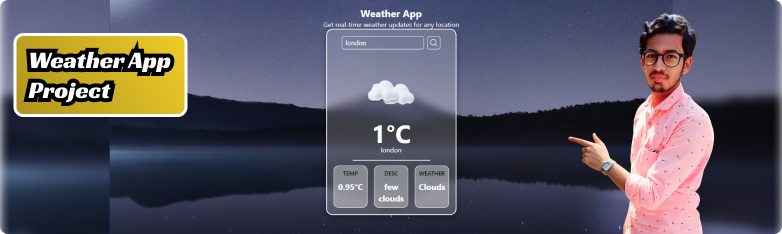
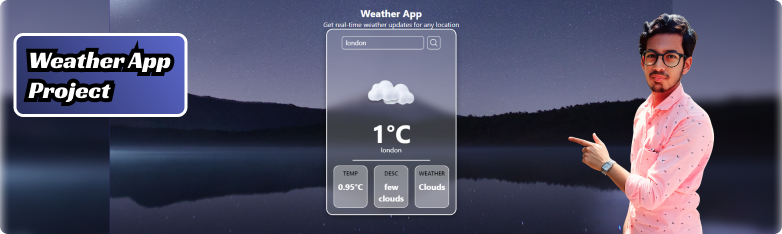
some styles are updated

Changed region(s): [[0.0, 0.1496, 0.2455, 0.5085]]

diff --git a/frontend/src/components/Home.jsx b/frontend/src/components/Home.jsx
@@ -13,6 +13,9 @@ import skills from "../assets/skills.png"
 import BlogImage from "../assets/blog-img.png"
 import pattern from "../assets/dots-pattern.png"
 import weatherapp from "../assets/weatherapp-img.png"
+import netflixapp from "../assets/netflixapp-img.png"
+import bulkmailer from "../assets/bulkmailer-img.png"
+import nostra from "../assets/nostra-img.png"
 import { FaArrowRight } from 'react-icons/fa6';
 import { useNavigate } from 'react-router-dom';
 import GalaxyBackground from './GalaxyBackground'
@@ -50,7 +53,7 @@ function Home() {
                         </p>
                         <div className="cta-btns flex flex-col gap-2 justify-center items-center md:flex-row lg:justify-start">
                             <button onClick={handleScroll} className='button-style mt-2'>Contact Me</button>
-                            <button className='button-secondary mt-2'>Resume</button>
+                           <a target='blank' href="https://drive.google.com/file/d/1IdLQsPT2Uw3L8kPGM8YHL5AgXblYBC_a/view?usp=drive_link"><button className='button-secondary mt-2'>Resume</button></a> 
                         </div>
                     </div>
                     <img src={profile} alt="profile-img" className='profile w-[60%] m-8 md:w-[20%]' />
@@ -103,14 +106,14 @@ function Home() {
                 <div className="project-cards px-2 pb-10 flex flex-col md:flex-row md:justify-evenly  flex-wrap gap-4">
 
                     <div className="card-1 bg-black rounded-md w-full md:w-[40%] p-4">
-                        <img src={weatherapp} alt="project1" />
+                        <img src={bulkmailer} alt="project1" />
                         <h2 className="text-white font-bold">Bulk Mailer</h2>
                         <p className="text-white text-sm">A bulk email system that allows users to send personalized emails to multiple recipients with delivery status and error handling.
                             Tech Stack:React, Node.js, Express, MongoDB, JWT</p>
                         <div className="project-card_btns flex gap-2 justify-between items-center mt-2">
-                            <button className="button-secondary">Git repository</button>
-                            <div className="arrowIcon w-fit bg-yellow-400 rounded-full p-2 hover:-rotate-[40deg] ease-out duration-300 cursor-pointer" onClick={() => navigate("/blogs")}   >
-                                <FaArrowRight className=" text-black text-xl" />
+                         <a href="https://github.com/mohamedyusuf787/bulkmailer" target='blank'>    <button className="button-secondary">Git repository</button></a>
+                            <div className="arrowIcon w-fit bg-yellow-400 rounded-full p-2 hover:-rotate-[40deg] ease-out duration-300 cursor-pointer"  >
+                             <a href="https://bulkmailer-sepia.vercel.app/BulkMail" target='blank'>  <FaArrowRight className=" text-black text-xl" /></a> 
                             </div>
                         </div>
                     </div>
@@ -121,33 +124,33 @@ function Home() {
                         <p className="text-white text-sm">A weather application that fetches live data using APIs to display current conditions, temperature, and forecasts based on user location.
                             Tech Stack:React, Node.js, Express, MongoDB, JWT</p>
                         <div className="project-card_btns flex gap-2 justify-between items-center mt-2">
-                            <button className="button-secondary">Git repository</button>
-                            <div className="arrowIcon w-fit bg-yellow-400 rounded-full p-2 hover:-rotate-[40deg] ease-out duration-300 cursor-pointer" onClick={() => navigate("/blogs")}   >
-                                <FaArrowRight className=" text-black text-xl" />
+                         <a href="https://github.com/mohamedyusuf787/Weather-Report" target='blank'>    <button className="button-secondary">Git repository</button></a>
+                            <div className="arrowIcon w-fit bg-yellow-400 rounded-full p-2 hover:-rotate-[40deg] ease-out duration-300 cursor-pointer"  >
+                             <a href="https://weather-report-eight-pi.vercel.app/" target='blank'>  <FaArrowRight className=" text-black text-xl" /></a> 
                             </div>
                         </div>
 
                     </div>
                     <div className="card-1 bg-black rounded-md  w-full md:w-[40%] p-4">
-                        <img src={weatherapp} alt="project1" />
+                        <img src={netflixapp} alt="project1" />
                         <h2 className="text-white font-bold">Netflix Clone</h2>
                         <p className="text-white text-sm">A pixel-perfect Netflix login page clone focused on UI accuracy, responsiveness, and form validation.
                             Tech Stack:React, Node.js, Express, MongoDB, JWT</p>
                         <div className="project-card_btns flex gap-2 justify-between items-center mt-2">
-                            <button className="button-secondary">Git repository</button>
-                            <div className="arrowIcon w-fit bg-yellow-400 rounded-full p-2 hover:-rotate-[40deg] ease-out duration-300 cursor-pointer" onClick={() => navigate("/blogs")}   >
-                                <FaArrowRight className=" text-black text-xl" />
+                         <a href="https://github.com/mohamedyusuf787/netflix-login-signup" target='blank'>    <button className="button-secondary">Git repository</button></a>
+                            <div className="arrowIcon w-fit bg-yellow-400 rounded-full p-2 hover:-rotate-[40deg] ease-out duration-300 cursor-pointer"  >
+                             <a href="https://netflix-plum-five.vercel.app/" target='blank'>  <FaArrowRight className=" text-black text-xl" /></a> 
                             </div>
                         </div>
                     </div><div className="card-1 bg-black rounded-md  w-full md:w-[40%] p-4">
-                        <img src={weatherapp} alt="project1" />
+                        <img src={nostra} alt="project1" />
                         <h2 className="text-white font-bold">E-Commerce website</h2>
                         <p className="text-white text-sm">A simple e-commerce website showcasing products with category filtering, cart functionality, and a user-friendly shopping experience.
                             Tech Stack:React, Node.js, Express, MongoDB, JWT</p>
                         <div className="project-card_btns flex gap-2 justify-between items-center mt-2">
-                            <button className="button-secondary">Git repository</button>
-                            <div className="arrowIcon w-fit bg-yellow-400 rounded-full p-2 hover:-rotate-[40deg] ease-out duration-300 cursor-pointer" onClick={() => navigate("/blogs")}   >
-                                <FaArrowRight className=" text-black text-xl" />
+                         <a href="https://github.com/mohamedyusuf787/Nostra_website" target='blank'>    <button className="button-secondary">Git repository</button></a>
+                            <div className="arrowIcon w-fit bg-yellow-400 rounded-full p-2 hover:-rotate-[40deg] ease-out duration-300 cursor-pointer"  >
+                             <a href="https://mohamedyusuf787.github.io/Nostra_website/index.html" target='blank'>  <FaArrowRight className=" text-black text-xl" /></a> 
                             </div>
                         </div>
                     </div>

diff --git a/frontend/src/App.js b/frontend/src/App.js
@@ -2,11 +2,34 @@ import Home from "./components/Home";
 import About from "./components/About";
 import Blogs from "./components/Blogs";
 import Navbar from "./components/common/Navbar";
+import AnimatedCursor from "react-animated-cursor"
 import { BrowserRouter,Route,Routes } from "react-router-dom";
 import Login from "./components/Login";
 import Signup from "./components/Signup";
 function App() {
   return (
+    <>
+ <AnimatedCursor
+      innerSize={8}
+      outerSize={8}
+      color='255, 255, 255'
+      outerAlpha={0.2}
+      innerScale={0.7}
+      outerScale={5}
+      clickables={[
+        'a',
+        'input[type="text"]',
+        'input[type="email"]',
+        'input[type="number"]',
+        'input[type="submit"]',
+        'input[type="image"]',
+        'label[for]',
+        'select',
+        'textarea',
+        'button',
+        '.link'
+      ]}
+    /> 
    <div className=" bg-black border rounded-lg w-full">
     <BrowserRouter>
     <Navbar/>
@@ -20,6 +43,7 @@ function App() {
 
     </BrowserRouter>
    </div>
+   </>
   );
 }
 

diff --git a/frontend/src/components/Stats.jsx b/frontend/src/components/Stats.jsx
@@ -7,7 +7,7 @@ const Stats = () => {
 
   return (
     <>
-      <section className="my-10">
+         <section className="my-10">
         <h1 className="anton-reg text-white text-4xl font-bold text-center mt-10">Impact in Numbers</h1>
         <div className="cards-section mx-10 flex items-center justify-center">
 
@@ -22,7 +22,7 @@ const Stats = () => {
 
             <div className="bg-[#121212] border border-yellow-500 p-6 rounded-xl w-[220px] md:w-[300px]">
               <h2 className="text-white text-4xl font-bold">
-                {inView && <CountUp end={4} duration={3} />}
+                {inView && <CountUp end={1} duration={3} />}
               </h2>
               <p className="text-gray-400 mt-2">Years Hands-On Experience</p>
             </div>

diff --git a/frontend/src/components/Blogs.jsx b/frontend/src/components/Blogs.jsx
@@ -9,6 +9,11 @@ function Blogs() {
     const [admin,setAdmin]=useState(false);
 
     // it call only once when page refresh
+
+useEffect(()=>{
+    window.scrollTo(0,0);
+},[])
+
     useEffect(() => {
         auth.onAuthStateChanged((user)=>{
             if(user){
@@ -24,7 +29,6 @@ function Blogs() {
             }
         })
 
-        window.scrollTo(0,0);
         axios.get("https://yusuf-blog-portfolio.onrender.com/api/blogs").then((res) => {
             console.log(res.data)
             setBlogs(res.data)

diff --git a/frontend/public/index.html b/frontend/public/index.html
@@ -6,7 +6,7 @@
  <link rel="preconnect" href="https://fonts.googleapis.com">
 <link rel="preconnect" href="https://fonts.gstatic.com" crossorigin>
 <link href="https://fonts.googleapis.com/css2?family=Anton&display=swap" rel="stylesheet">
-  <title>Document</title>
+  <title>Yusuf's Portfolio</title>
 </head>
 <body>
   <div id="root"></div>
